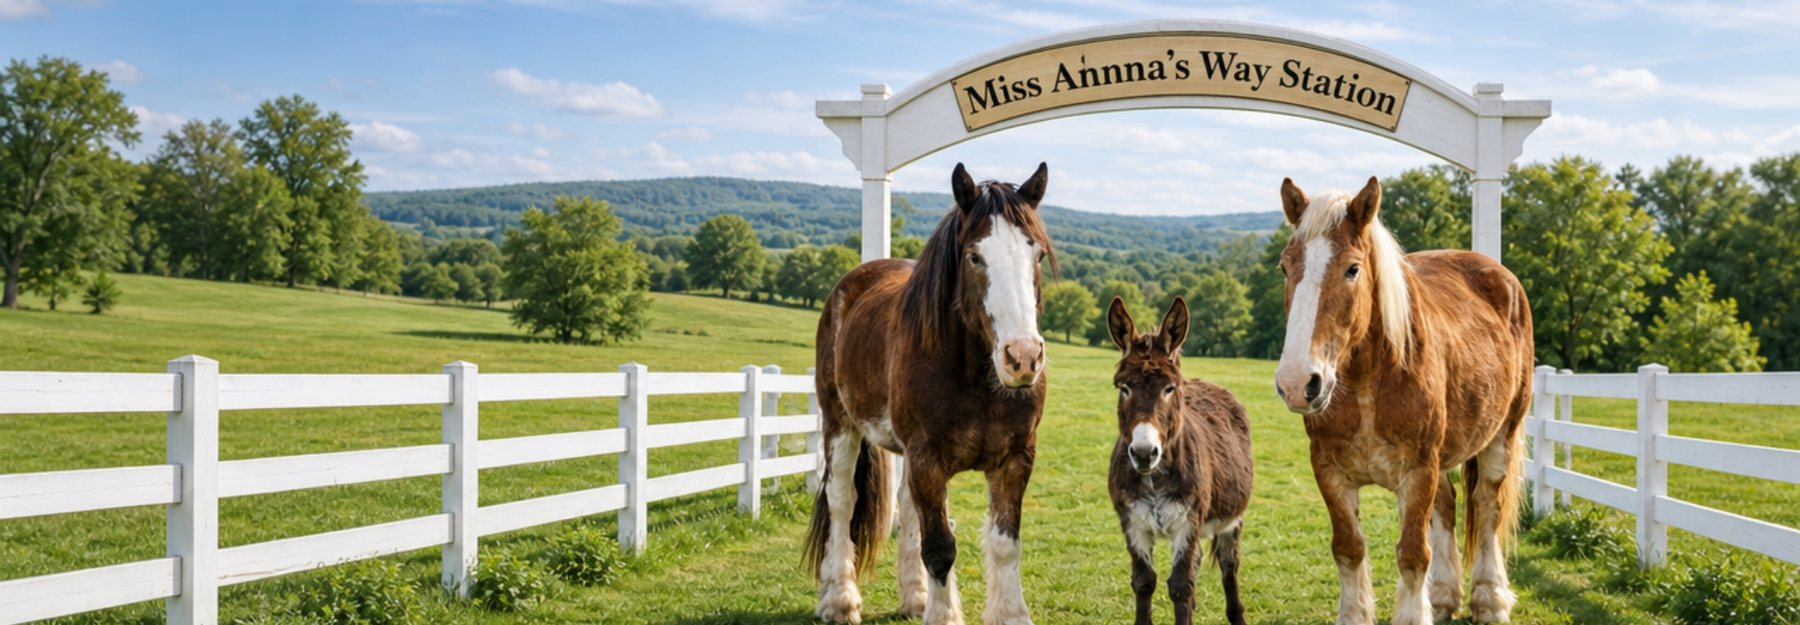
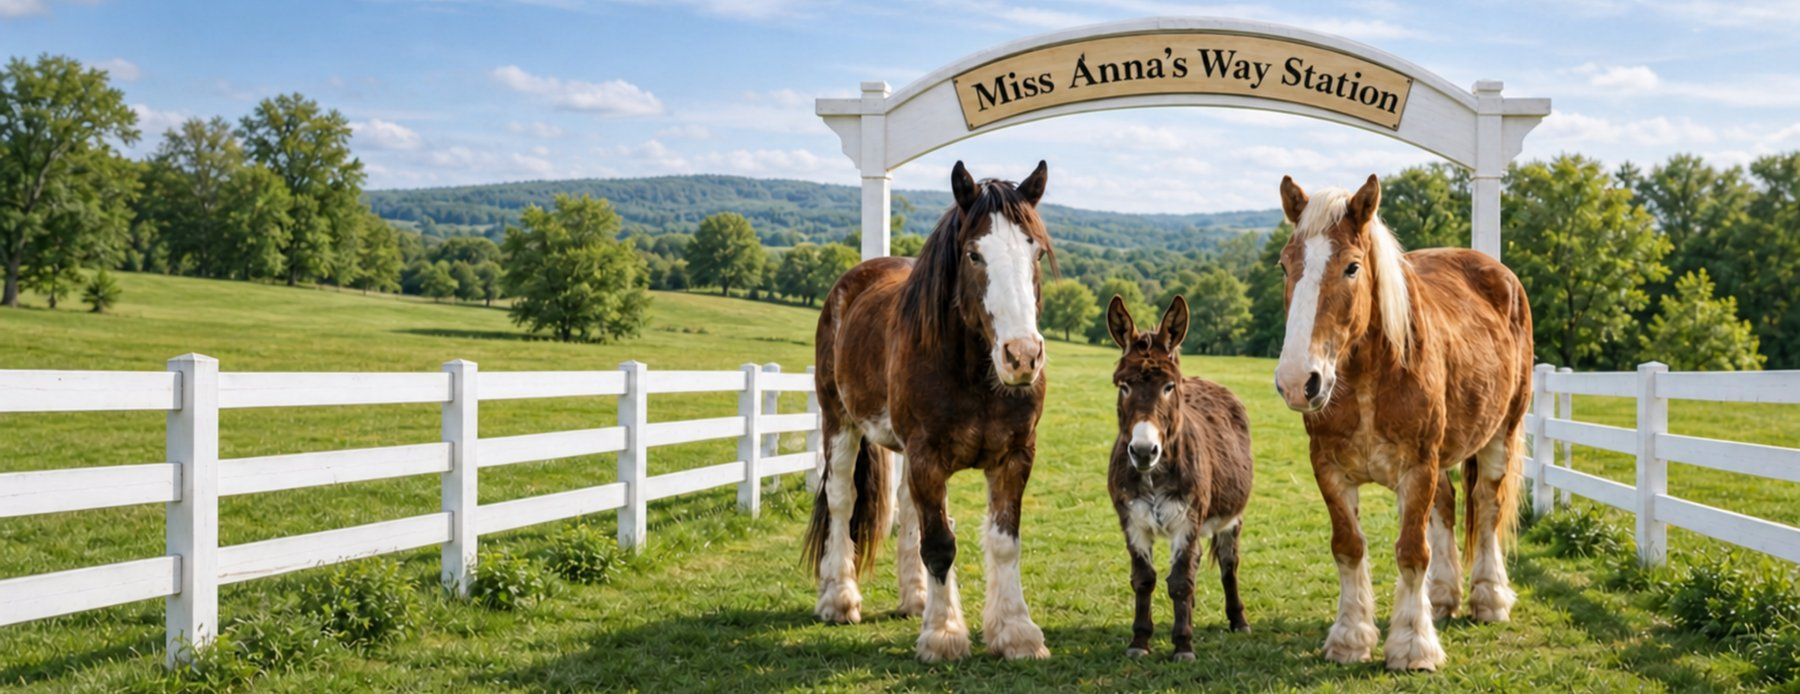
Swap in the corrected hero illustration
The organization's revised artwork, with the station name lettered correctly.
Same treatment: 1800px and 900px JPEGs for phone and desktop.

diff --git a/index.html b/index.html
@@ -31,7 +31,7 @@
 <section class="banner">
   <img src="assets/photos/hero-1800.jpg"
        srcset="assets/photos/hero-900.jpg 900w, assets/photos/hero-1800.jpg 1800w"
-       sizes="100vw" width="1800" height="625"
+       sizes="100vw" width="1800" height="694"
        alt="Two horses and a miniature donkey standing in a green fenced pasture, in front of a white gate archway with a sign that reads Miss Anna's Way Station">
 </section>
 
